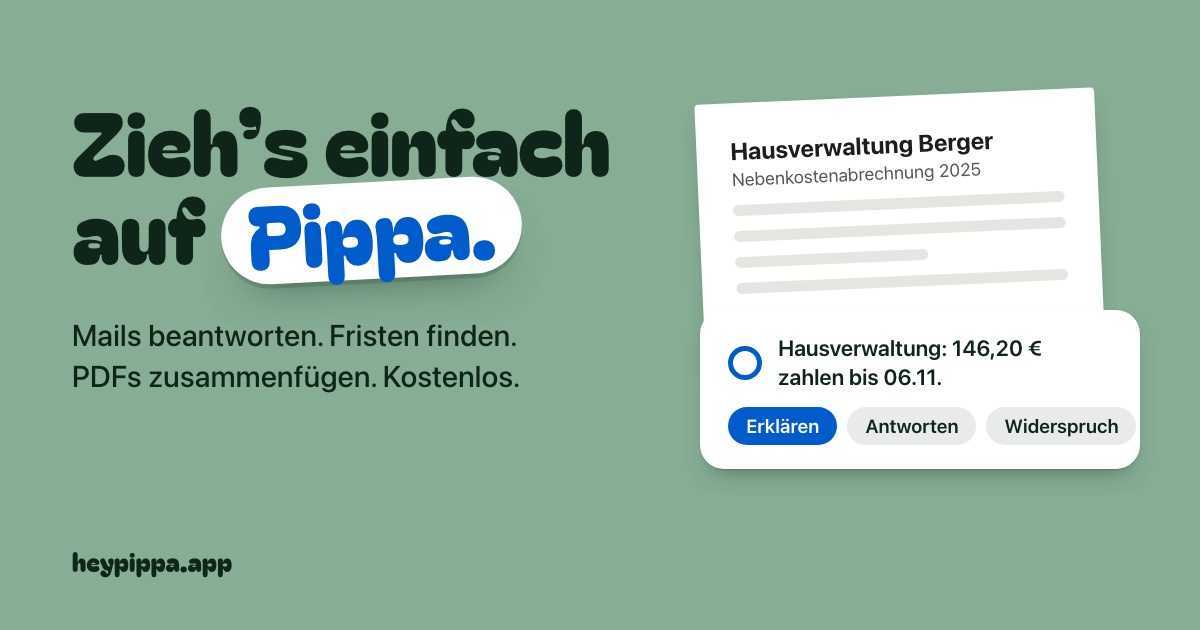
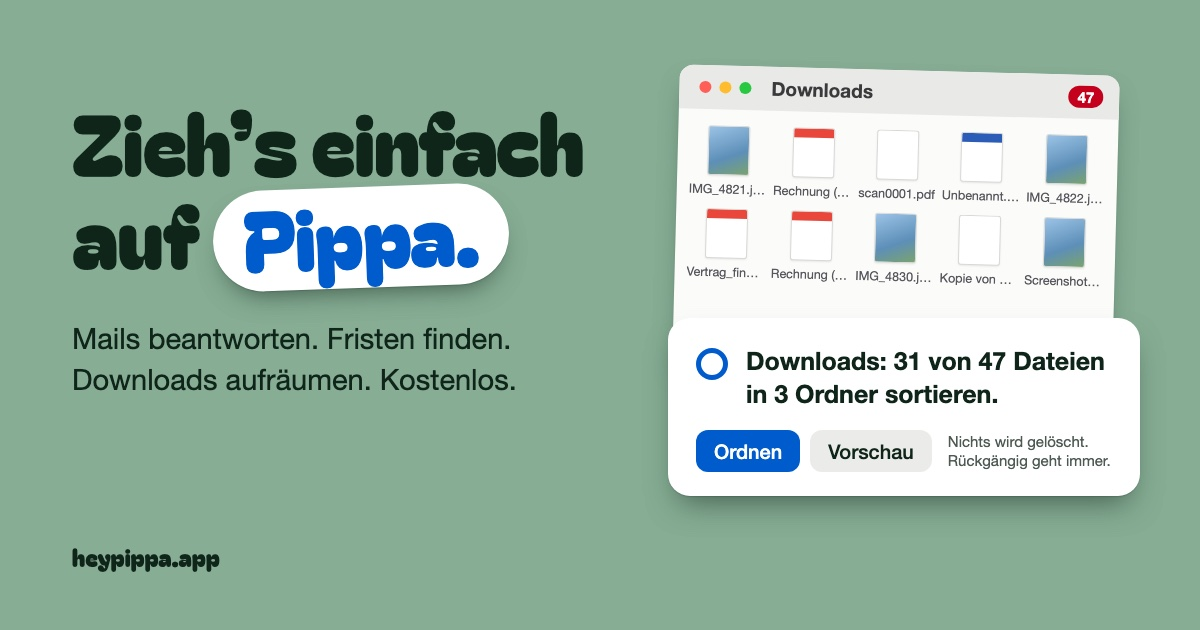
Site: link preview shows tidying up Downloads instead of the service charge letter
Same layout and type as before (Bagel Fat One headline, Pippa pill, card with the
Pippa ring), rendered at 1200x630 with headless Chrome: a full Downloads window
(47 files) and the card "Downloads: 31 of 47 files into 3 folders" with Tidy
up / Preview and "Nothing is deleted. Undo any time." Alt texts updated.

diff --git a/site/index.html b/site/index.html
@@ -15,7 +15,7 @@
 <meta property="og:title" content="Pippa – Mails beantworten, Fristen finden, Unterlagen suchen, Ordner aufräumen">
 <meta property="og:description" content="Zieh’s einfach auf Pippa: Mails beantworten, Kündigungsfristen finden, Unterlagen zusammensuchen, Downloads aufräumen. Was Pippa ändert, kannst du rückgängig machen. Kostenlos für den Mac, die KI läuft auf deinem Mac.">
 <meta property="og:image" content="https://heypippa.app/og.jpg">
-<meta property="og:image:alt" content="„Zieh’s einfach auf Pippa.“ Daneben eine Nebenkostenabrechnung der Hausverwaltung Berger und Pippa mit der Zeile „Hausverwaltung: 146,20 € zahlen bis 06.11.“">
+<meta property="og:image:alt" content="„Zieh’s einfach auf Pippa.“ Daneben ein voller Downloads-Ordner mit 47 Dateien und Pippa mit der Zeile „Downloads: 31 von 47 Dateien in 3 Ordner sortieren.“">
 <meta property="og:image:secure_url" content="https://heypippa.app/og.jpg">
 <meta property="og:image:type" content="image/jpeg">
 <meta property="og:image:width" content="1200">
@@ -24,7 +24,7 @@
 <meta name="twitter:title" content="Pippa – Mails beantworten, Fristen finden, Unterlagen suchen, Ordner aufräumen">
 <meta name="twitter:description" content="Zieh’s einfach auf Pippa: Mails beantworten, Kündigungsfristen finden, Unterlagen zusammensuchen, Downloads aufräumen. Was Pippa ändert, kannst du rückgängig machen. Kostenlos für den Mac, die KI läuft auf deinem Mac.">
 <meta name="twitter:image" content="https://heypippa.app/og.jpg">
-<meta name="twitter:image:alt" content="„Zieh’s einfach auf Pippa.“ Daneben eine Nebenkostenabrechnung der Hausverwaltung Berger und Pippa mit der Zeile „Hausverwaltung: 146,20 € zahlen bis 06.11.“">
+<meta name="twitter:image:alt" content="„Zieh’s einfach auf Pippa.“ Daneben ein voller Downloads-Ordner mit 47 Dateien und Pippa mit der Zeile „Downloads: 31 von 47 Dateien in 3 Ordner sortieren.“">
 <meta name="theme-color" content="#86ad94">
 <link rel="icon" href="favicon.ico" sizes="48x48">
 <link rel="icon" type="image/svg+xml" href="favicon.svg">

diff --git a/site/en/index.html b/site/en/index.html
@@ -16,7 +16,7 @@
 <meta property="og:title" content="Pippa – Answer emails, find deadlines, gather documents, tidy folders">
 <meta property="og:description" content="Just drop it on Pippa: answer emails, find cancellation deadlines, gather your documents, tidy up Downloads. Anything Pippa changes, you can undo. Free for the Mac, and the AI runs on your Mac.">
 <meta property="og:image" content="https://heypippa.app/og-en.jpg">
-<meta property="og:image:alt" content="“Just drop it on Pippa.” Next to it, a service charge statement from Berger Property Management and Pippa with the line “Landlord: pay €146.20 by 6 Nov.”">
+<meta property="og:image:alt" content="“Just drop it on Pippa.” Next to it, a full Downloads folder with 47 files and Pippa with the line “Downloads: sort 31 of 47 files into 3 folders.”">
 <meta property="og:image:secure_url" content="https://heypippa.app/og-en.jpg">
 <meta property="og:image:type" content="image/jpeg">
 <meta property="og:image:width" content="1200">
@@ -25,7 +25,7 @@
 <meta name="twitter:title" content="Pippa – Answer emails, find deadlines, gather documents, tidy folders">
 <meta name="twitter:description" content="Just drop it on Pippa: answer emails, find cancellation deadlines, gather your documents, tidy up Downloads. Anything Pippa changes, you can undo. Free for the Mac, and the AI runs on your Mac.">
 <meta name="twitter:image" content="https://heypippa.app/og-en.jpg">
-<meta name="twitter:image:alt" content="“Just drop it on Pippa.” Next to it, a service charge statement from Berger Property Management and Pippa with the line “Landlord: pay €146.20 by 6 Nov.”">
+<meta name="twitter:image:alt" content="“Just drop it on Pippa.” Next to it, a full Downloads folder with 47 files and Pippa with the line “Downloads: sort 31 of 47 files into 3 folders.”">
 <meta name="theme-color" content="#86ad94">
 <link rel="icon" href="../favicon.ico" sizes="48x48">
 <link rel="icon" type="image/svg+xml" href="../favicon.svg">
